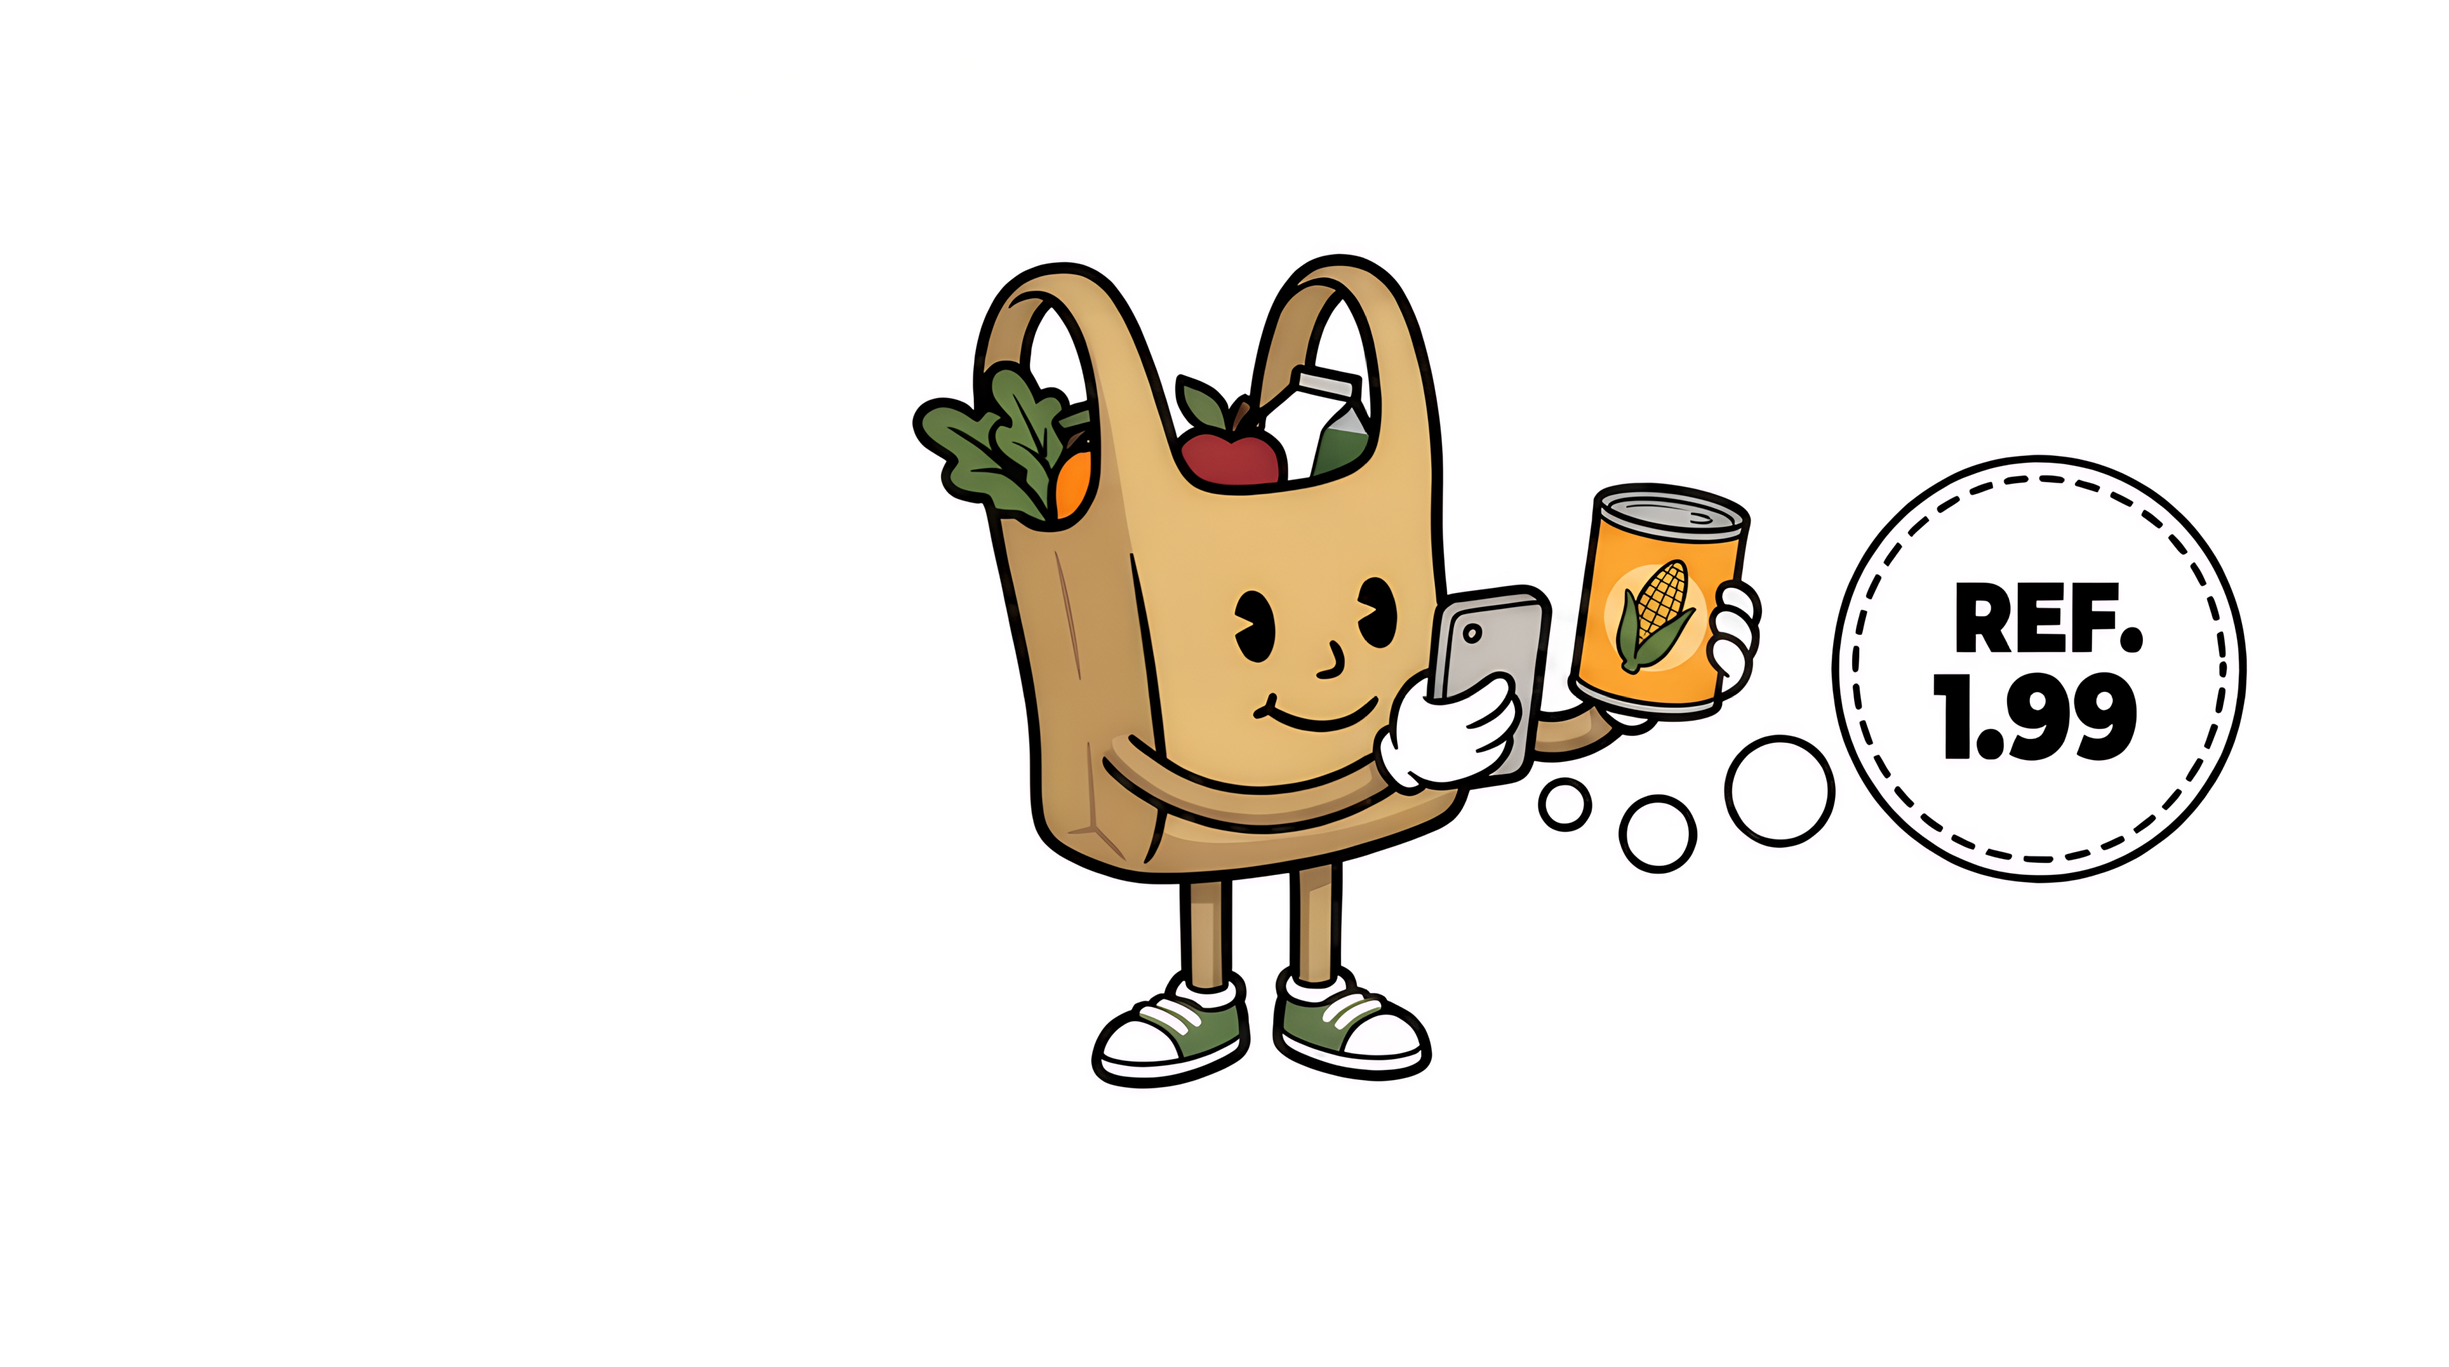
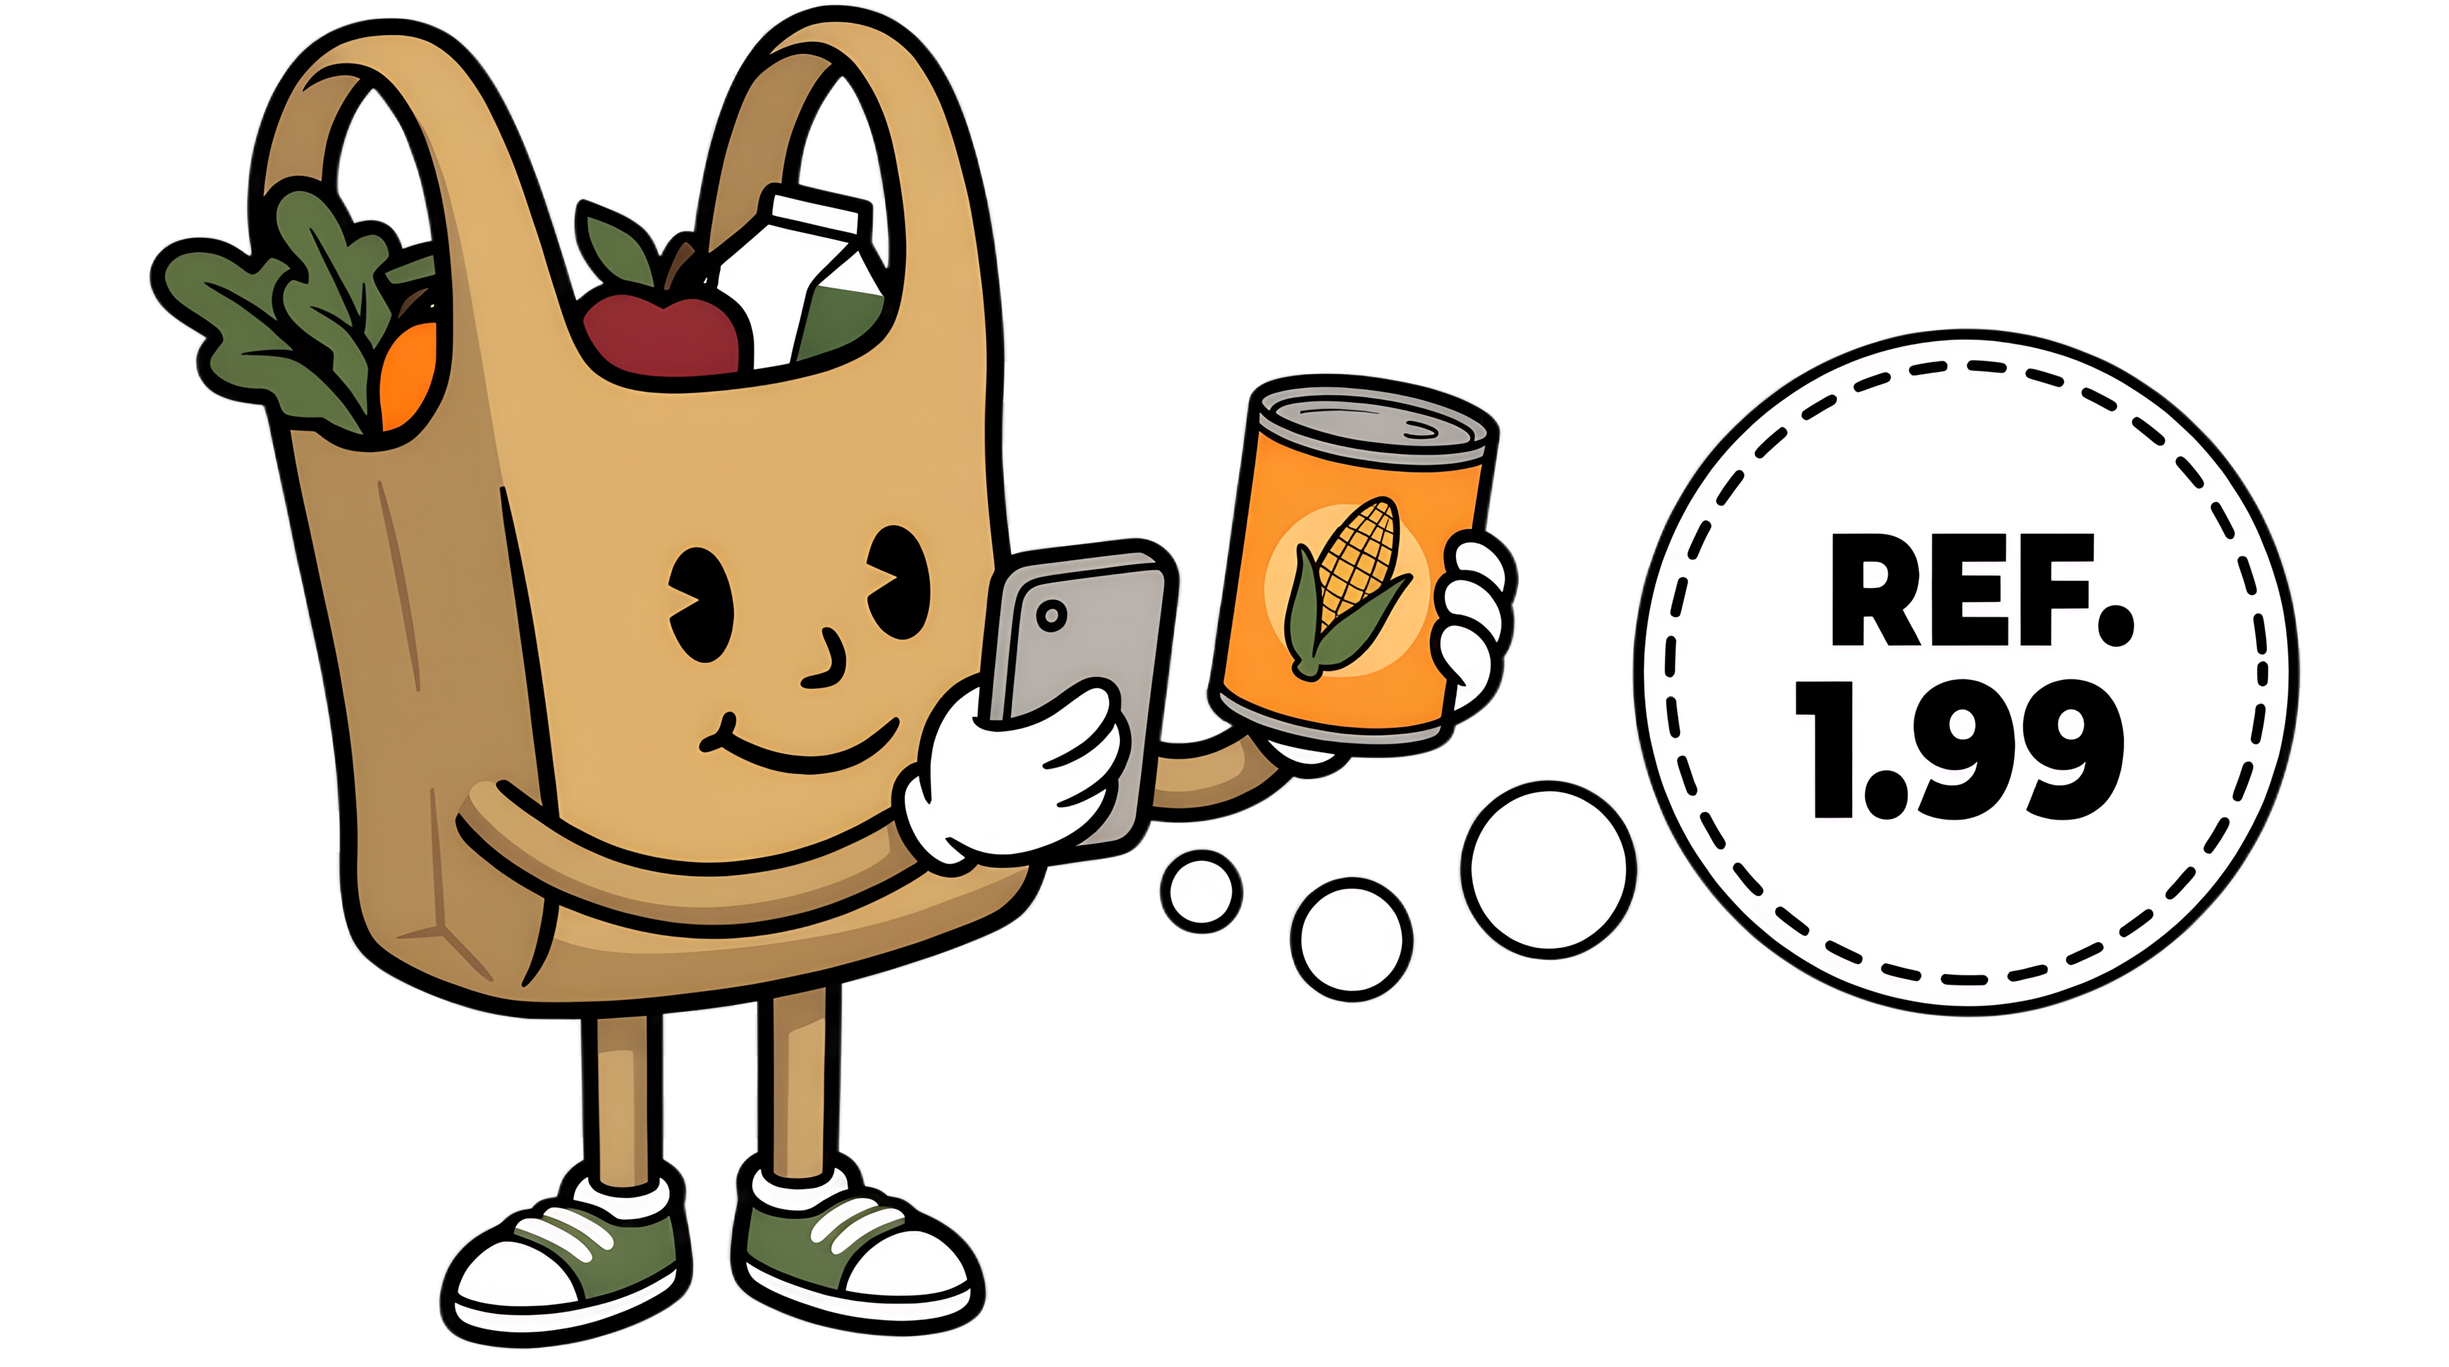
fix scanner and change images

diff --git a/mobile/lib/ocr.ts b/mobile/lib/ocr.ts
@@ -205,6 +205,58 @@ function extractLastPriceFromText(text: string): number | null {
   return isNaN(price) ? null : price;
 }
 
+// ML Kit misreads digit-like glyphs on low-contrast labels ("3.77" -> "3.T7",
+// "0.88" -> "O.88"). Fix the most common confusions inside price-like tokens.
+function normalizeOcrDigits(text: string): string {
+  return text.replace(/[TOloI]/g, ch => {
+    switch (ch) {
+      case 'T':
+        return '7';
+      case 'O':
+      case 'o':
+        return '0';
+      case 'I':
+      case 'l':
+        return '1';
+      default:
+        return ch;
+    }
+  });
+}
+
+// Lenient fallback that tolerates OCR digit/separator misreads, so a token
+// like "3.T7" still yields 3.77. Keeps the "last 2-decimal number wins" rule
+// of extractLastPriceFromText. Only matches real prices: "0.385" (weight) is
+// not a 2-decimal value, so it never qualifies.
+function extractLenientPriceFromText(text: string): number | null {
+  const tokens = text.match(/\d[\d.,TIloO]*/g);
+  if (!tokens || tokens.length === 0) return null;
+  let best: number | null = null;
+  for (const raw of tokens) {
+    const cleaned = normalizeOcrDigits(raw).replace(/,/g, '.');
+    const match = cleaned.match(/\d{1,3}(?:\.\d{3})*\.\d{2}(?!\d)/);
+    if (match) {
+      const price = parseFloat(match[0]);
+      if (!isNaN(price) && price > 0) best = price;
+    }
+  }
+  return best;
+}
+
+// Try the strict parser first, then the OCR-tolerant one.
+function extractAnyPrice(text: string): number | null {
+  return extractLastPriceFromText(text) ?? extractLenientPriceFromText(text);
+}
+
+// ML Kit sometimes splits a large currency glyph from its number ("$" and
+// "3.T7" become separate blocks). This block has no price of its own but
+// should be recombined with the adjacent number block.
+function isLoneCurrencySymbol(text: string): boolean {
+  const t = text.trim();
+  if (t.length === 0 || /\d/.test(t)) return false;
+  return detectCurrencyFromText(t) !== null || t === '#';
+}
+
 function parseDecimal(s: string): number {
   const normalized = s
     .replace(',', '.')
@@ -297,68 +349,127 @@ function findBestPriceBlock(
   let bestBlockIndex = -1;
   let bestPriceScore = -99;
 
-  for (let i = 0; i < sortedBlocks.length; i++) {
-    const block = sortedBlocks[i];
-    const blockText = block.text.trim();
-    const price = extractLastPriceFromText(blockText);
-    const currency = detectCurrencyFromText(blockText);
+  // Weight-based labels (deli / meat / cheese) print both a per-kg price and
+  // a final "PRECIO TOTAL". The header itself has no price, so the "total"
+  // keyword bonus below never fires on it. Detect those headers (tolerating
+  // OCR misreads like "TƠTAL") so the price closest to them wins.
+  const totalLabelIndices = sortedBlocks
+    .map((block, i) => (/\bT.{0,2}TAL\b/i.test(block.text) && extractAnyPrice(block.text) === null ? i : -1))
+    .filter(i => i >= 0);
+
+  // Scores one price candidate. Text may come from a single block or from a
+  // currency-symbol block recombined with its adjacent number block.
+  const scoreCandidate = (
+    text: string,
+    fontHeight: number,
+    idx: number,
+    price: number,
+    currency: 'BS' | 'USD' | null
+  ): number => {
     // "Ref." is a price label (Ref. KG = price/kg, Total Ref = total price), not a currency indicator
-    const isRefLabel = /\bRef\.?\b/i.test(blockText);
+    const isRefLabel = /\bRef\.?\b/i.test(text);
     const isActualCurrency = currency !== null && !isRefLabel;
     let score = 0;
 
-    if (price !== null) score += 3;
+    score += 3;
     // Explicit currency ($ / Bs) is the strongest signal of the real price.
     if (isActualCurrency) score += 8;
-    if (/\d{6,}/.test(blockText)) score -= 2;
-    if (blockText.length < 4) score -= 1;
+    if (/\d{6,}/.test(text)) score -= 2;
+    if (text.length < 4) score -= 1;
     // Bare integers are less likely the final price than 2-decimal prices.
-    if (/^\d{2,6}$/.test(blockText)) score -= 2;
-    if (price !== null && /[.,]\d{2}(?!\d)/.test(blockText)) score += 2;
+    if (/^\d{2,6}$/.test(text)) score -= 2;
+    if (/[.,]\d{2}(?!\d)/.test(text)) score += 2;
     // Weight / quantity lines ("0.440 kg", "60 kg") are not prices. Include
-    // common ML Kit misreads of "kg" (e.g. "ko", "kq").
-    if (/\b\d+(?:[.,]\d+)?\s*(kg|kgs|ko|kq|g|gr|ml|l|lb|oz)\b/i.test(blockText)) {
+    // common ML Kit misreads of "kg" (e.g. "ko", "kq"). A block that also
+    // carries a "#" price marker (e.g. "Crema ... 170Gr\n# 2.24") is a real
+    // price, so it must not be penalized.
+    if (
+      /\b\d+(?:[.,]\d+)?\s*(kg|kgs|ko|kq|g|gr|ml|l|lb|oz)\b/i.test(text) &&
+      !/#/.test(text)
+    ) {
       score -= 25;
     }
     // Per-kg reference price ("Ref.KG", "Ref .KG") is not the product price.
-    if (/\bref\.?\s*(kg|g|lb|kilo)\b/i.test(blockText)) {
-      continue;
+    if (/\bref\.?\s*(kg|g|lb|kilo)\b/i.test(text)) {
+      return -Infinity;
     }
 
-    // Font size heuristic: small-print blocks get penalized, larger fonts get proportional bonus
-    if (isSmallPrint(block, smallPrintThreshold)) {
+    // Font size heuristic: small-print blocks get penalized, larger fonts get
+    // a proportional bonus. The final price on a label is almost always the
+    // biggest number, so the font weight is deliberately the dominant signal
+    // (larger than every other bonus/penalty combined).
+    if (fontHeight > 0 && fontHeight < smallPrintThreshold) {
       score -= 3;
-    } else if (avgElementHeight(block) > 0) {
-      const fontHeight = avgElementHeight(block);
+    } else if (fontHeight > 0) {
       const ratio = fontHeight / globalAvgHeight;
       // Proportional font bonus: bigger font = higher score
-      score += Math.round(2 * ratio);
+      score += Math.round(15 * ratio);
     }
 
     // Penalize bare price-only lines (likely unit price / tax, not final)
-    if (price !== null && !isActualCurrency && hasPricePatternOnly(blockText)) {
+    if (!isActualCurrency && hasPricePatternOnly(text)) {
       score -= 1;
     }
 
     // Bonus for "Total"/"Total Ref" keyword — the final total price.
-    if (/total/i.test(blockText)) {
+    if (/total/i.test(text)) {
       score += 5;
     }
 
     // Strong proximity bonus to the product name block.
     if (productBlockIndex >= 0) {
-      const dist = Math.abs(i - productBlockIndex);
+      const dist = Math.abs(idx - productBlockIndex);
       if (dist <= PROXIMITY_RANGE) {
         score += (PROXIMITY_RANGE - dist + 1) * 3;
       }
     }
 
-    if (price !== null && score > bestPriceScore) {
+    // The price block nearest to a "PRECIO TOTAL" header is the final price;
+    // give it a large bonus so it always beats the per-kg price next to it.
+    for (const totalIdx of totalLabelIndices) {
+      const dist = Math.abs(idx - totalIdx);
+      if (dist <= 3) {
+        score += (4 - dist) * 5;
+      }
+    }
+
+    return score;
+  };
+
+  // Registers a candidate if it beats the current best.
+  const consider = (text: string, fontHeight: number, idx: number) => {
+    const price = extractAnyPrice(text);
+    if (price === null) return;
+    const currency = detectCurrencyFromText(text);
+    const score = scoreCandidate(text, fontHeight, idx, price, currency);
+    if (score > bestPriceScore) {
       bestPriceScore = score;
       detectedPrice = price;
-      detectedCurrency = isActualCurrency ? currency : null;
-      priceSourceText = blockText;
-      bestBlockIndex = i;
+      detectedCurrency = currency !== null && !/\bRef\.?\b/i.test(text) ? currency : null;
+      priceSourceText = text;
+      bestBlockIndex = idx;
+    }
+  };
+
+  for (let i = 0; i < sortedBlocks.length; i++) {
+    const block = sortedBlocks[i];
+    const blockText = block.text.trim();
+    const fontHeight = avgElementHeight(block);
+
+    consider(blockText, fontHeight, i);
+
+    // ML Kit split the big currency glyph from its number ("$" + "3.T7").
+    // Recombine them so "$ 3.77" becomes a candidate at the symbol's font size.
+    if (isLoneCurrencySymbol(blockText) && i + 1 < sortedBlocks.length) {
+      const next = sortedBlocks[i + 1];
+      const nextPrice = extractAnyPrice(next.text);
+      if (nextPrice !== null) {
+        consider(
+          `${blockText} ${next.text.trim()}`,
+          Math.max(fontHeight, avgElementHeight(next)),
+          i + 1
+        );
+      }
     }
   }
 

diff --git a/mobile/components/onboarding/OnboardingStep.tsx b/mobile/components/onboarding/OnboardingStep.tsx
@@ -14,7 +14,7 @@ import { MaterialIcons } from '@expo/vector-icons';
 import { useAppTheme } from '../../styles/theme';
 import { Button } from '../Button';
 import { ProgressBar } from '../shared/ProgressBar';
-import { useScaleIn, useFadeSlideIn } from '../../hooks/animations';
+import { useScaleIn, useFadeSlideIn, useFloat } from '../../hooks/animations';
 
 interface OnboardingStepProps {
   image: number;
@@ -48,8 +48,11 @@ export function OnboardingStep({
   const theme = useAppTheme();
   const { height } = useWindowDimensions();
   const cardHeight = Math.min(height * 0.42, 320);
+  const bubbleSize = Math.min(cardHeight * 0.78, 260);
+  const mascotHeight = bubbleSize * 0.58;
 
   const imageEnter = useScaleIn({ delay: 80, from: 0.6 });
+  const bubbleFloat = useFloat({ distance: 6, duration: 3000 });
   const titleEnter = useFadeSlideIn({ delay: 160, distance: 18 });
   const subtitleEnter = useFadeSlideIn({ delay: 280, distance: 16 });
   const buttonEnter = useFadeSlideIn({ delay: 420, distance: 16 });
@@ -133,6 +136,23 @@ export function OnboardingStep({
       alignItems: 'center',
       justifyContent: 'center',
     },
+    bubble: {
+      width: bubbleSize,
+      height: bubbleSize,
+      borderRadius: theme.borderRadius.full,
+      backgroundColor: theme.colors.white,
+      boxShadow: theme.shadows.soft,
+      overflow: 'hidden',
+      alignItems: 'center',
+      justifyContent: 'center',
+      borderCurve: 'continuous',
+    },
+    mascotWrap: {
+      width: '100%',
+      height: mascotHeight,
+      alignItems: 'center',
+      justifyContent: 'center',
+    },
     image: {
       width: '100%',
       height: '100%',
@@ -202,20 +222,24 @@ export function OnboardingStep({
           <View style={styles.blob1} />
           <View style={styles.blob2} />
           <View style={styles.blob3} />
-          <Animated.View style={[styles.imageWrap, imageEnter, imageAnimatedStyle]}>
-            <Image
-              source={image}
-              style={styles.image}
-              contentFit="contain"
-              transition={200}
-              accessibilityIgnoresInvertColors
-            />
-          </Animated.View>
-          {imageOverlay ? (
-            <View style={styles.overlayWrap} pointerEvents="none">
-              {imageOverlay(cardHeight)}
-            </View>
-          ) : null}
+          <View style={styles.imageWrap}>
+            <Animated.View style={[styles.bubble, bubbleFloat]}>
+              <Animated.View style={[styles.mascotWrap, imageEnter, imageAnimatedStyle]}>
+                <Image
+                  source={image}
+                  style={styles.image}
+                  contentFit="contain"
+                  transition={200}
+                  accessibilityIgnoresInvertColors
+                />
+              </Animated.View>
+              {imageOverlay ? (
+                <View style={styles.overlayWrap} pointerEvents="none">
+                  {imageOverlay(mascotHeight)}
+                </View>
+              ) : null}
+            </Animated.View>
+          </View>
         </View>
 
         <View style={styles.content}>

diff --git a/mobile/app/(onboarding)/step-4.tsx b/mobile/app/(onboarding)/step-4.tsx
@@ -1,11 +1,11 @@
 import { useRouter } from 'expo-router';
-import { useHeartbeat } from '../../hooks/animations';
+import { useFloat } from '../../hooks/animations';
 import { OnboardingStep } from '../../components/onboarding/OnboardingStep';
 import IMAGE from '../../assets/onboarding/merki_checkout.png';
 
 export default function OnboardingStep4() {
   const router = useRouter();
-  const heartbeat = useHeartbeat({ to: 1.06, beat: 240, rest: 2200 });
+  const float = useFloat({ distance: 10, duration: 3200 });
 
   return (
     <OnboardingStep
@@ -15,7 +15,7 @@ export default function OnboardingStep4() {
       subtitle="Llega a la caja sabiendo exactamente cuánto vas a pagar. Sin sorpresas, sin caras rojas."
       stepIndex={4}
       totalSteps={4}
-      imageAnimatedStyle={heartbeat}
+      imageAnimatedStyle={float}
       showBack
       onBack={() => router.back()}
       onNext={() => router.push('/(onboarding)/login-choice')}

diff --git a/mobile/app/(onboarding)/step-2.tsx b/mobile/app/(onboarding)/step-2.tsx
@@ -1,11 +1,11 @@
 import { useRouter } from 'expo-router';
-import { useSway } from '../../hooks/animations';
+import { useFloat } from '../../hooks/animations';
 import { OnboardingStep } from '../../components/onboarding/OnboardingStep';
 import IMAGE from '../../assets/onboarding/merki_calculator.png';
 
 export default function OnboardingStep2() {
   const router = useRouter();
-  const sway = useSway({ degrees: 4, duration: 3600 });
+  const float = useFloat({ distance: 10, duration: 3200 });
 
   return (
     <OnboardingStep
@@ -15,7 +15,7 @@ export default function OnboardingStep2() {
       subtitle="Adiós a las sumas de cabeza. Mira el total de tu carrito al instante, en Bolívares y en dólares."
       stepIndex={2}
       totalSteps={4}
-      imageAnimatedStyle={sway}
+      imageAnimatedStyle={float}
       showBack
       onBack={() => router.back()}
       onNext={() => router.push('/(onboarding)/step-3')}

diff --git a/mobile/utils/currency.ts b/mobile/utils/currency.ts
@@ -113,7 +113,6 @@ export function detectCurrencyFromText(text: string): 'BS' | 'USD' | null {
   if (/\b(USD|U\$S|D[OÓ]LAR(?:ES)?|DLS|REF)\b/.test(upper)) return 'USD';
   if (/\b(EUR|EURO)\b/.test(upper)) return 'USD';
   if (/\$/.test(text)) return 'USD';
-  if (/^REF/i.test(text)) return 'USD';
 
   return null;
 }
